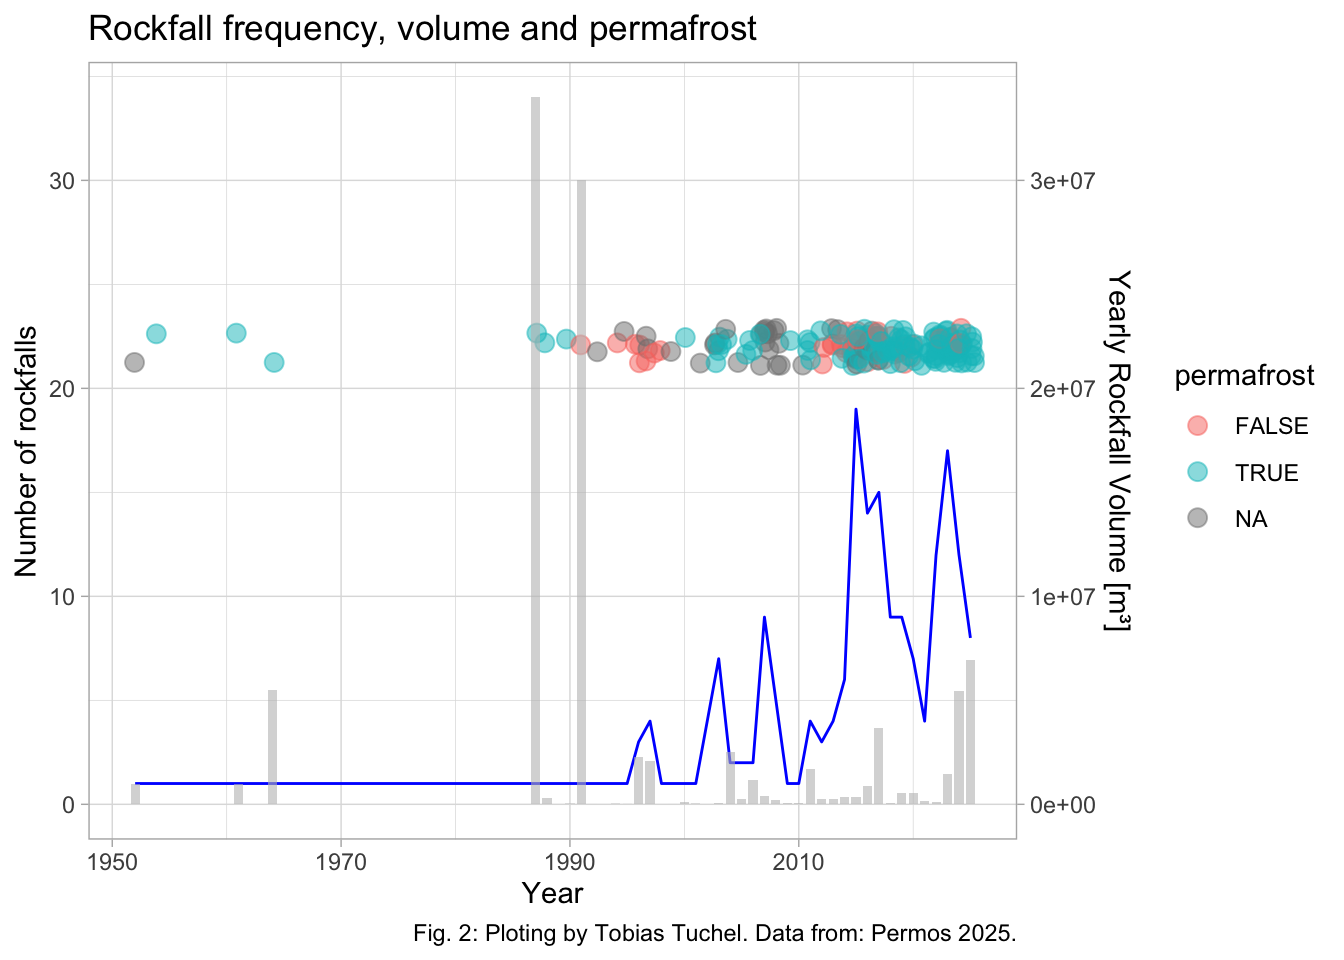
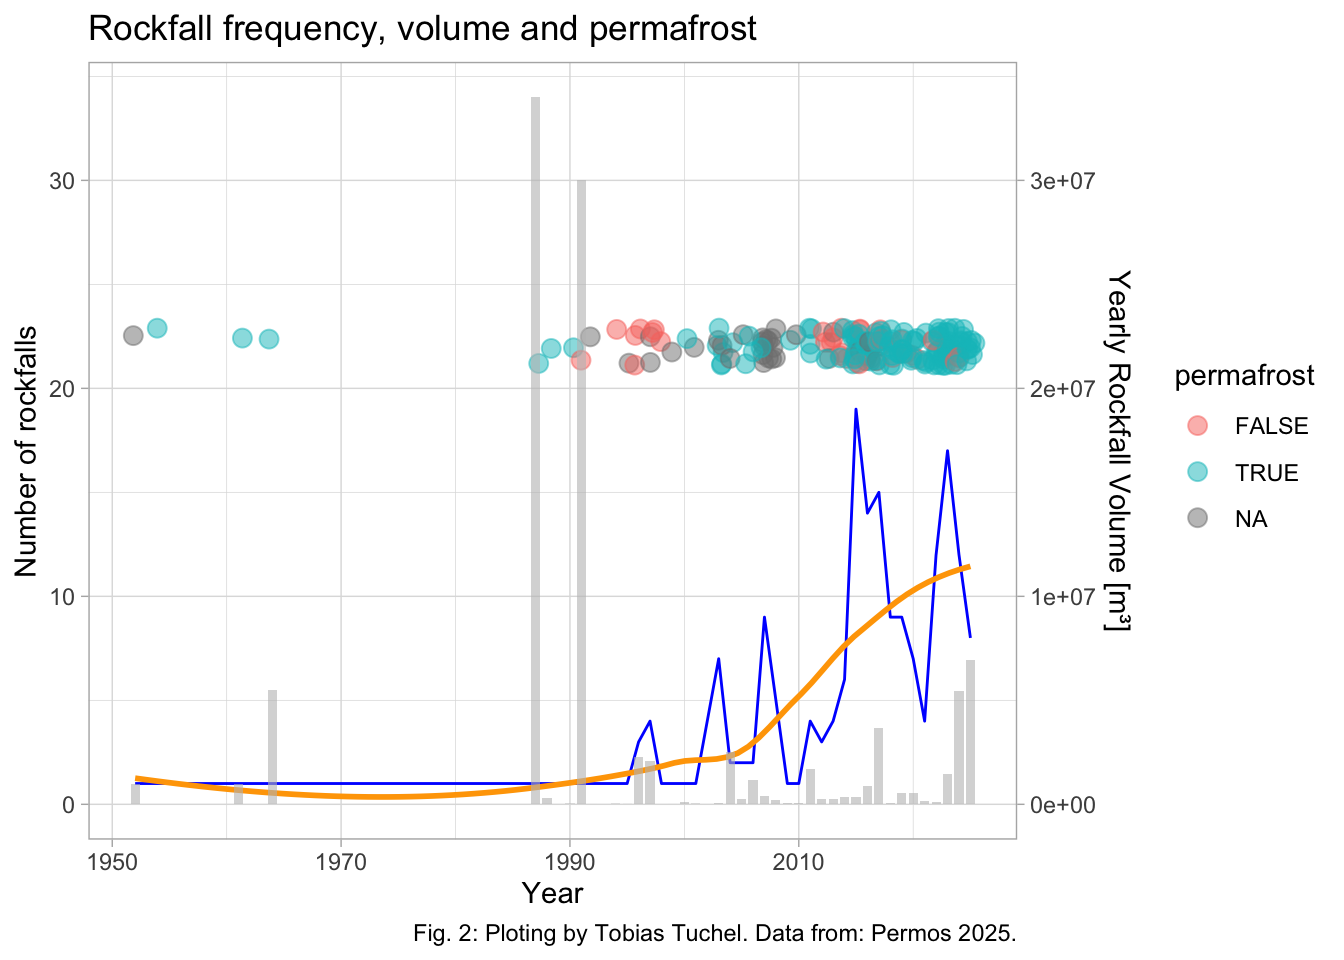
update

diff --git a/_site/index.html b/_site/index.html
@@ -173,9 +173,12 @@ ul.task-list li input[type="checkbox"] {
 <section id="damage" class="level1">
 <h1>Damage</h1>
 <p>Natural hazards caused damage in the past, as the Goldau Landslide from 1815 impressively shows, when a whole village was covered in debris (Reynard 2025). Since 1946 the yearly causalties are gathered nationally.</p>
-<p>Looking at rockfall frequnecy, volume and permafrost involvment, we can clearly see the impact of the global warming.</p>
+<p>Looking at rockfall frequnecy, volume and permafrost involvment, we can clearly see the impact of the global warming. Besides overall huge variability between single years, in the last decades both the volume and number of rockfalls have significantly increased.</p>
 <p>Uncertainties are largely due to the long history of observations. While in the pre Satellite area before 1972, with the merge of Landsat, especcially smaller rockfalls in remote areas, where not observed or reported (Heipke 2017; ).</p>
 <div class="cell">
+<div class="cell-output cell-output-stderr">
+<pre><code>`geom_smooth()` using method = 'loess' and formula = 'y ~ x'</code></pre>
+</div>
 <div class="cell-output-display">
 <div>
 <figure class="figure">
@@ -318,7 +321,7 @@ function openDialog(type){
 </section>
 <section id="word-count" class="level2">
 <h2 class="anchored" data-anchor-id="word-count">Word Count</h2>
-<p>The total number of words on this page, including references and captions, is 1340.</p>
+<p>The total number of words on this page, including references and captions, is 1373.</p>
 </section>
 </section>
 <section id="imprint" class="level1">
